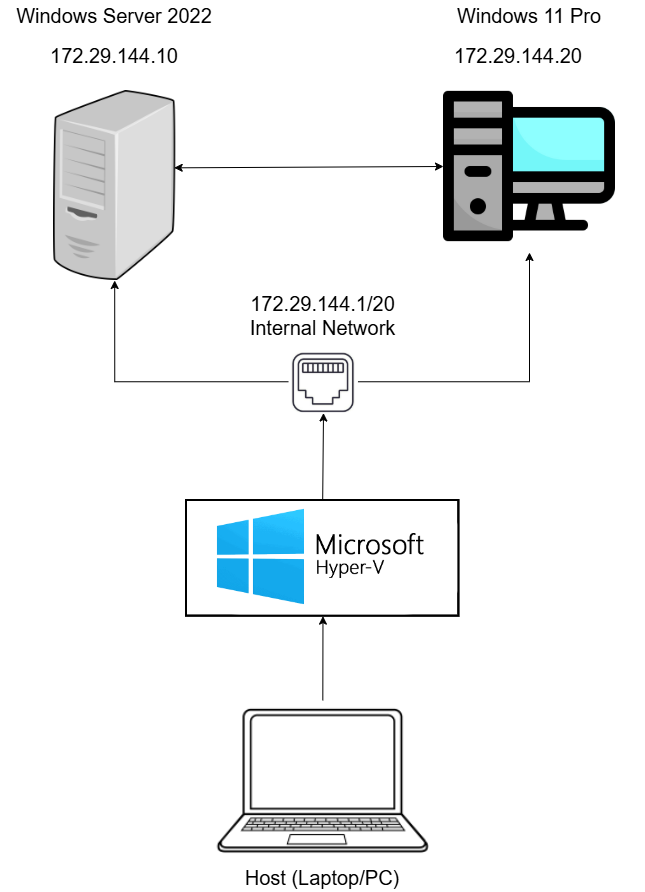
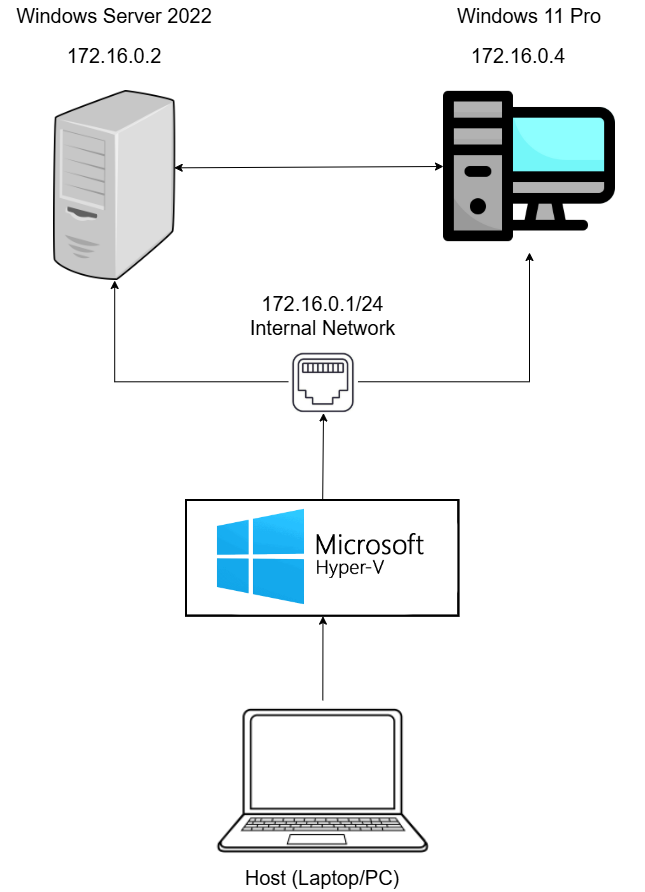
add IT Helpdesk scenarios and new network config

diff --git a/README.md b/README.md
@@ -13,8 +13,8 @@
 
 ## Project Overview
 
-### Purpose
-[Brief explanation of why you built this lab and what skills you aimed to develop]
+### Description
+This homelab project demonstrates the design and implementation of an Active Directory environment for a multi-department organization. The lab simulates enterprise-scale user and computer management across Sales, Finance, HR, and IT departments with proper security controls and organizational structure.
 
 ### Key Objectives
 - Deploy and configure Active Directory Domain Services
@@ -30,10 +30,10 @@
 ![AD Homelab Network Diagram](AD_Homelab_Network.png)
 
 **Network Configuration:**
-- **Subnet:** 172.29.144.0/20
-- **Domain Controller IP:** 172.29.144.10 (Static)
-- **Client Workstation IP:** 172.29.144.20 (Static)
-- **Host Machine IP:** 172.29.144.1
+- **Subnet:** 172.16.0.0/24
+- **Domain Controller IP:** 172.16.0.2 (Static)
+- **Client Workstation IP:** 172.16.0.4 (Static)
+- **Internal Switch IP:** 172.16.0.1
 - **Domain Name:** HELPLAB.local
 
 ### Hardware & Virtualization Specifications
@@ -51,8 +51,8 @@
 - **RAM:** 4 GB
 - **vCPU:** 4 cores
 - **Storage:** 60 GB virtual disk
-- **Network:** Hyper-V Default Switch
-- **IP Address:** 172.29.144.10/20 (Static, no gateway)
+- **Network:** Hyper-V Internal Switch
+- **IP Address:** 172.16.0.2/24 (Static, no gateway)
 
 #### Client Workstation VM (Windows 11 Pro)
 - **Hostname:** WIN11-CLI-01
@@ -60,8 +60,8 @@
 - **RAM:** 4 GB
 - **vCPU:** 4 cores
 - **Storage:** 60 GB virtual disk
-- **Network:** Hyper-V Default Switch
-- **IP Address:** 172.29.144.20/20 (Static, no gateway)
+- **Network:** Hyper-V Internal Switch
+- **IP Address:** 172.16.0.4/24 (Static, no gateway)
 
 ### Server Roles & Services
 
@@ -269,11 +269,28 @@ This approach simplifies permission management and scales well as the organizati
 
 ---
 
+### 6. Mapping Shared Drive - Finance
+
+![Drive Mapping Policy](Setup_Screenshots/Mapping_Shared_Drive_Finance.png)
+
+**Purpose:** Enable Finance users to access shared Finance drive.
+
+**Configuration:**
+- **Letter:** F
+- **Location:** \\\\WIN-MEUJ3KPDEG5\\Finance
+- **Label as:** Finance Department
+- **Hide/Show this drive:** No change
+- **Hide/Show all drives:** No change
+
+**Applied to:** Finance OU
+
+---
+
 ## IT Helpdesk Scenarios
 
 ### Scenario 1: Password Reset Request
 
-**Ticket:** User Sarah Johnson (HR) forgot her password and is locked out
+**Ticket:** hr.user1 forgot their password and is locked out
 
 **Resolution Steps:**
 1. Verified user identity through security questions
@@ -286,16 +303,14 @@ This approach simplifies permission management and scales well as the organizati
 8. Verified user could log in and change password
 
 **Screenshots:**
-![Locked Account Status](Helpdesk_Screenshots/password_reset_01.png)
+![Locked Account Status](helpdesk_scenarios/locked_account.png)
 *Account showing locked status before reset*
 
-![Reset Password Dialog](Helpdesk_Screenshots/password_reset_02.png)
+![Reset Password Dialog](helpdesk_scenarios/unlock_account.png)
 *Resetting password and unlocking account*
 
-![Successful Login](Helpdesk_Screenshots/password_reset_03.png)
-*User successfully logged in with new password*
-
-**Time to Resolution:** 5 minutes
+![Change Password](helpdesk_scenarios/change_password.png)
+*User successfully changing password*
 
 ---
 
@@ -311,157 +326,120 @@ This approach simplifies permission management and scales well as the organizati
    - Email: jsmith@homelab.local
    - Initial password set with "must change at next logon"
 3. Added user to Finance_Department security group
-4. Configured profile settings (home folder path)
-5. Verified group membership and permissions
-6. Tested login from client workstation
-7. Confirmed access to Finance shared folder
-8. Notified manager that account is ready
+4. Verified group membership
+5. Tested login from client workstation
+6. Confirmed access to Finance shared folder
+7. Notified manager that account is ready
 
 **Screenshots:**
-![Create New User](Helpdesk_Screenshots/new_user_01.png)
+![Create New User](helpdesk_scenarios/new_user_01.png)
 *Creating new user account in Finance OU*
 
-![Group Membership](Helpdesk_Screenshots/new_user_02.png)
+![Group Membership](helpdesk_scenarios/new_user_02.png)
 *Adding user to Finance_Department group*
 
-![Shared Folder Access](Helpdesk_Screenshots/new_user_03.png)
+![Tested login](helpdesk_scenarios/new_user_03.png)
+*Testing new user login*
+
+![Shared Folder Access](helpdesk_scenarios/new_user_04.png)
 *Verifying access to Finance shared resources*
 
-**Time to Resolution:** 10 minutes
-
 ---
 
-### Scenario 3: User Offboarding
-
-**Ticket:** Employee Jane Doe (IT Department) has left the company - disable account and archive data
-
-**Resolution Steps:**
-1. Opened ADUC and located Jane Doe's account in IT Staff OU
-2. Disabled the user account (right-click → Disable Account)
-3. Updated account description with termination date and ticket number
-4. Removed user from all security groups except Domain Users
-5. Moved account to "Disabled Users" OU
-6. Documented group memberships before removal
-7. Reset password for security purposes
-8. Backed up user's home folder to archive location
-9. Notified manager and IT team of completion
-
-**Screenshots:**
-![Disable Account](Helpdesk_Screenshots/offboard_01.png)
-*Disabling terminated employee account*
-
-![Move to Disabled OU](Helpdesk_Screenshots/offboard_02.png)
-*Moving disabled account to Disabled Users OU*
-
-![Account Properties](Helpdesk_Screenshots/offboard_03.png)
-*Updated description documenting termination*
-
-**Time to Resolution:** 15 minutes
-
----
-
-### Scenario 4: Computer Unable to Join Domain
+### Scenario 3: Computer Unable to Join Domain
 
 **Ticket:** New workstation CLIENT02 cannot join the domain - receiving error message
 
 **Resolution Steps:**
 1. Verified network connectivity between client and DC (ping test)
-2. Confirmed DNS settings point to DC (172.29.144.10)
-3. Verified DC DNS records are correct in DNS Manager
-4. Used `nslookup` to test domain name resolution from client
-5. Checked that computer name doesn't already exist in AD
-6. Attempted domain join with domain admin credentials
-7. Reviewed error message - found workstation had incorrect DNS server
-8. Corrected DNS server setting to point to DC
-9. Successfully joined computer to domain
-10. Moved computer object to appropriate OU (IT Department workstations)
-11. Restarted computer and verified domain login
+2. Used `nslookup` to test domain name resolution from client
+3. Corrected DNS server setting to point to DC (172.16.0.2)
+5. Successfully joined computer to domain
+6. Moved computer object to appropriate OU (IT Department workstations)
+7. Restarted computer and verified domain login
 
 **Screenshots:**
-![Domain Join Error](Helpdesk_Screenshots/domain_join_01.png)
-*Initial domain join failure error*
+![Domain Join Error](helpdesk_scenarios/domain_join_01.png)
+*Initial domain join failure error. Notice it mentions "error occurred when DNS was queried" hinting that the DNS configuration may be the issue.*
 
-![DNS Troubleshooting](Helpdesk_Screenshots/domain_join_02.png)
+![Ping DC](helpdesk_scenarios/domain_join_02.png)
+*Ping the domain controller to ensure it is reachable*
+
+![DNS Troubleshooting](helpdesk_scenarios/domain_join_03.png)
 *Testing DNS resolution with nslookup*
 
-![Successful Domain Join](Helpdesk_Screenshots/domain_join_03.png)
-*Computer successfully joined to domain*
+![Change DNS settings](helpdesk_scenarios/domain_join_04.png)
+*Change DNS settings*
 
-**Time to Resolution:** 20 minutes
+![Successful Domain Join](helpdesk_scenarios/domain_join_05.png)
+*Computer successfully joined to domain*
 
 ---
 
-### Scenario 5: Group Policy Not Applying
+### Scenario 4: Group Policy Not Applying
 
 **Ticket:** User reports that desktop wallpaper policy is not applying to their workstation
 
 **Resolution Steps:**
 1. Logged into affected client workstation
-2. Opened Command Prompt as administrator
+2. Opened Command Prompt
 3. Ran `gpupdate /force` to force policy refresh
 4. Ran `gpresult /r` to view applied policies
-5. Found that computer object was in wrong OU (not linked to wallpaper GPO)
-6. Moved computer to correct OU in ADUC
+5. Found that user was in wrong OU (not linked to wallpaper GPO)
+6. Moved user to correct OU in ADUC
 7. Ran `gpupdate /force` again on client
-8. Verified policy application with `gpresult /h report.html`
+8. Verified policy application with `gpresult /r`
 9. Confirmed wallpaper changed after reboot
 10. Documented issue and resolution
 
 **Screenshots:**
-![GPResult Output](Helpdesk_Screenshots/gpo_troubleshoot_01.png)
-*Checking applied policies with gpresult*
+![GPResult Output](helpdesk_scenarios/gpo_troubleshoot_01.png)
+*Notice that there are no group policy objects applied to user*
 
-![Computer Moved to Correct OU](Helpdesk_Screenshots/gpo_troubleshoot_02.png)
-*Moving computer to OU with proper policy links*
+![User Moved to Correct OU](helpdesk_scenarios/gpo_troubleshoot_02.png)
+*Moving user to OU with proper policy links*
 
-![Policy Successfully Applied](Helpdesk_Screenshots/gpo_troubleshoot_03.png)
+![Policy Successfully Applied](helpdesk_scenarios/gpo_troubleshoot_03.png)
 *Verified wallpaper policy applied correctly*
 
 **Commands Used:**
 ```cmd
 gpupdate /force
 gpresult /r
-gpresult /h C:\report.html
 ```
-
-**Time to Resolution:** 12 minutes
 
 ---
 
-### Scenario 6: Shared Folder Permission Issue
+### Scenario 5: Shared Folder Permission Issue
 
-**Ticket:** User cannot access Finance shared folder despite being in Finance_Department group
+**Ticket:** Finance user cannot modify files in Finance shared folder
 
 **Resolution Steps:**
 1. Verified user's group membership in ADUC
 2. Confirmed user is member of Finance_Department security group
-3. Checked NTFS permissions on shared folder
-4. Checked Share permissions on folder
-5. Found that Finance_Department group had Read permissions but user needed Modify
-6. Updated Finance_Department permissions to "Modify" on NTFS level
-7. Informed user that permissions may take effect after logout/login
-8. User logged out and back in
-9. Verified user can now read, write, and modify files in shared folder
-10. Tested with creating and deleting test file
+3. Checked Share/NFTS permissions in Server Manager
+4. Found that Finance_Department group had Read permissions but user needed Modify
+5. Updated Finance_Department permissions to "Modify"
+6. Informed user that permissions may take effect after logout/login
+7. User logged out and back in
+8. Verified user can now read, write, and modify files in shared folder
+9. Tested with creating and deleting test file
 
 **Screenshots:**
-![Group Membership Verification](Helpdesk_Screenshots/permissions_01.png)
+![Group Membership Verification](helpdesk_scenarios/permissions_01.png)
 *Confirming user is in correct security group*
 
-![NTFS Permissions](Helpdesk_Screenshots/permissions_02.png)
+![Share Permissions](helpdesk_scenarios/permissions_02.png)
 *Reviewing and updating folder permissions*
 
-![Successful Access](Helpdesk_Screenshots/permissions_03.png)
+![Successful Access](helpdesk_scenarios/permissions_03.png)
 *User successfully accessing shared folder*
-
-**Time to Resolution:** 10 minutes
 
 ---
 
 ## Lessons Learned
 
 ### Technical Skills Gained
-- [List specific technical skills you developed]
 - Installed and configured Active Directory Domain Services from scratch
 - Designed and implemented OU structure following best practices
 - Created and linked Group Policy Objects for security and standardization
@@ -469,7 +447,7 @@ gpresult /h C:\report.html
 
 ### Challenges Encountered
 - Encountered issues with remote access due to installing portable version of OpenSSH.
-- Initial DNS configuration issues causing domain join failures - resolved by properly configuring DNS forwarders
+- Initial DNS configuration issues causing domain join failures - resolved by properly configuring internal network
 
 ---
 
